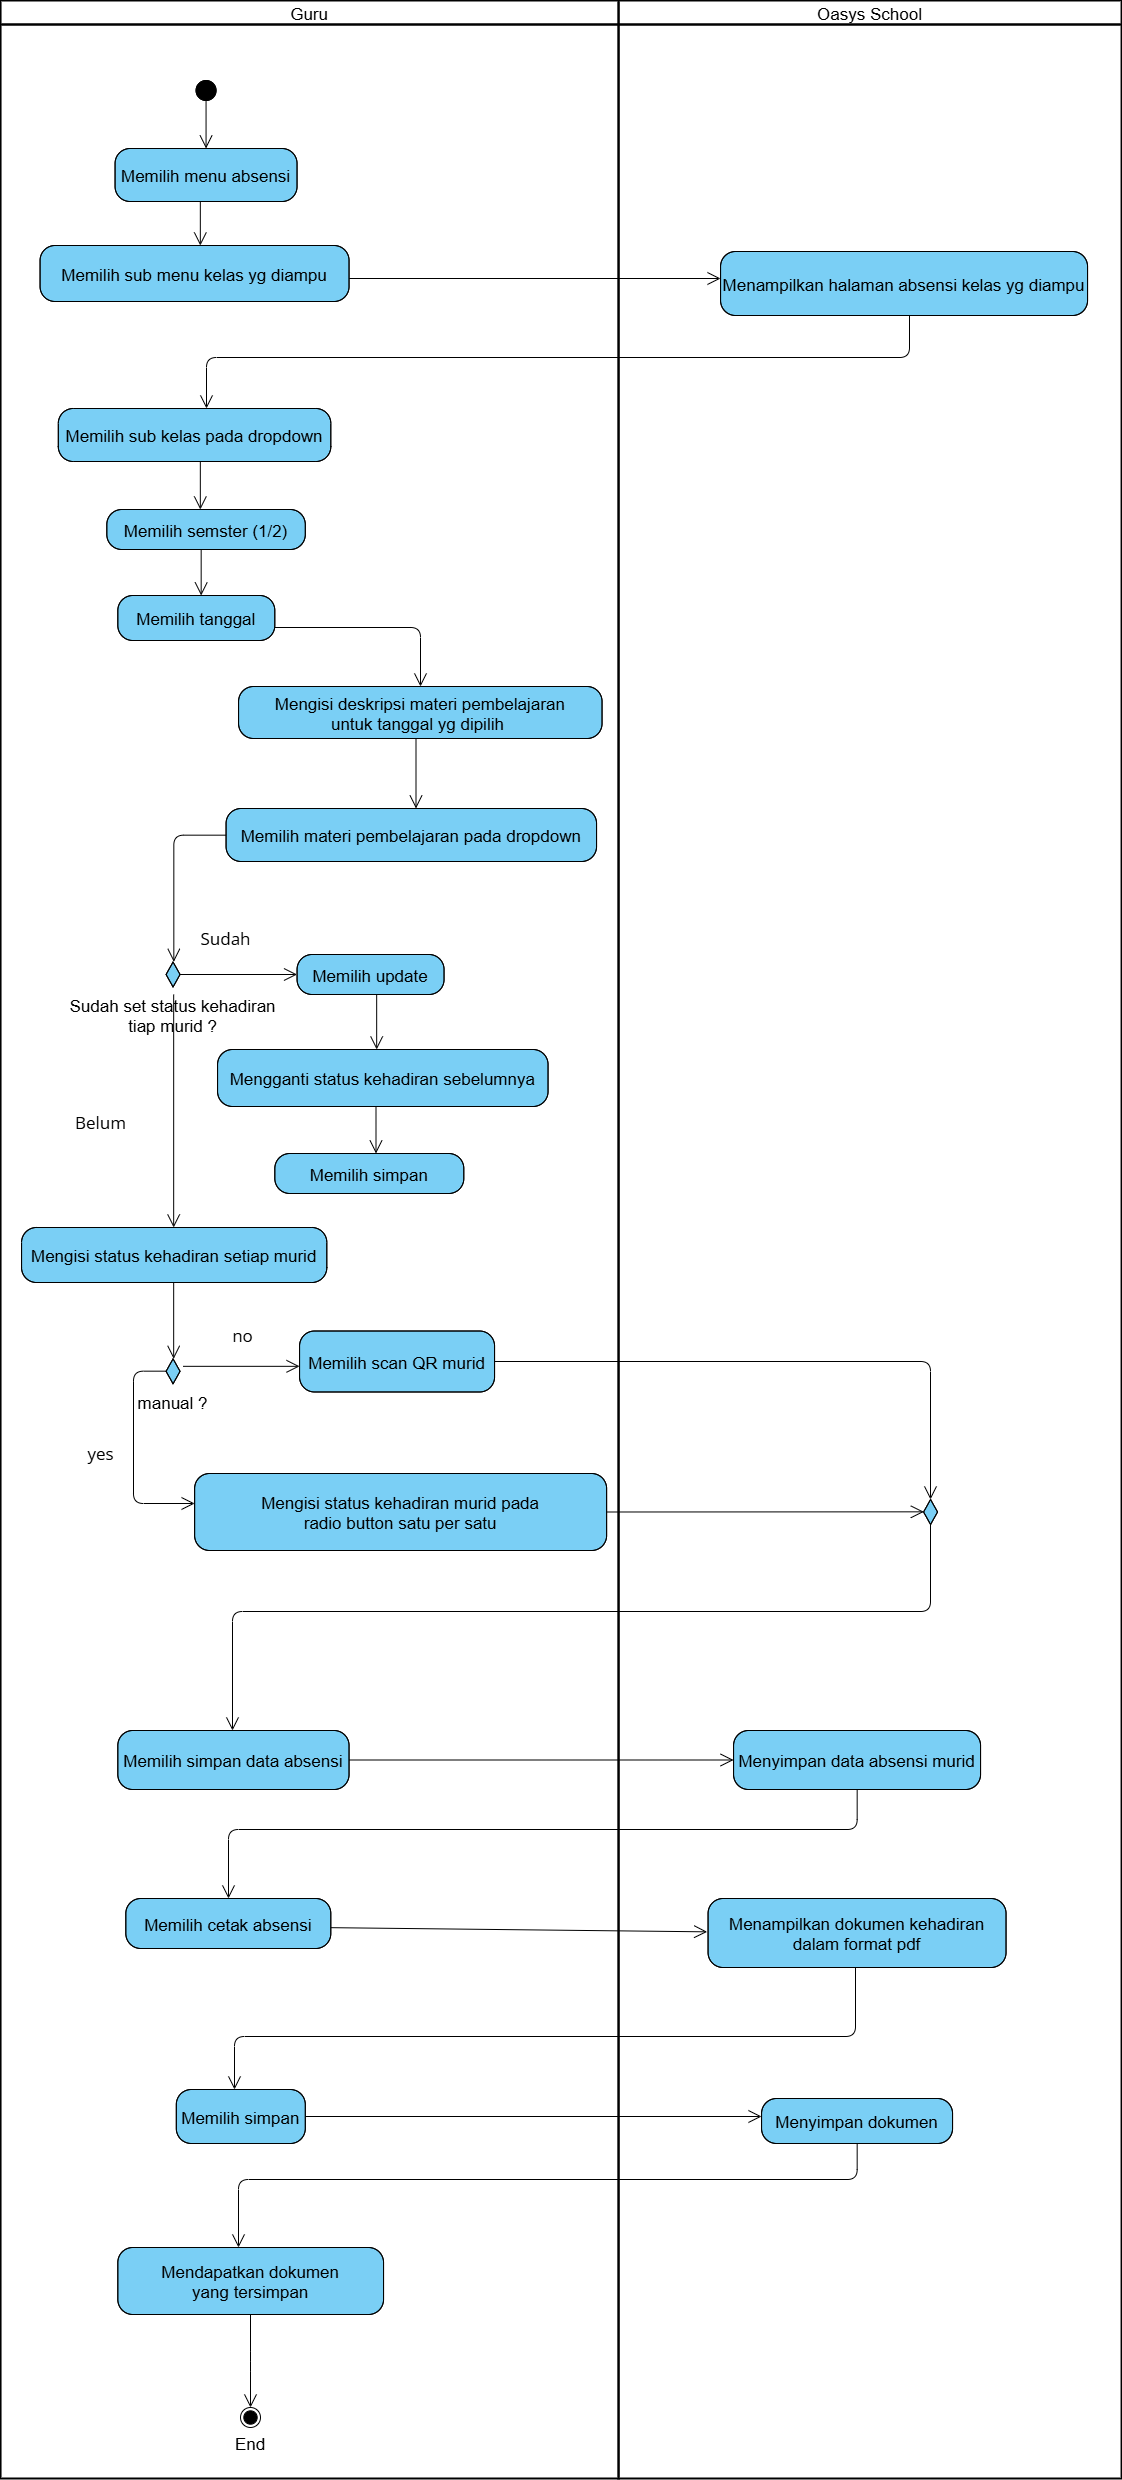
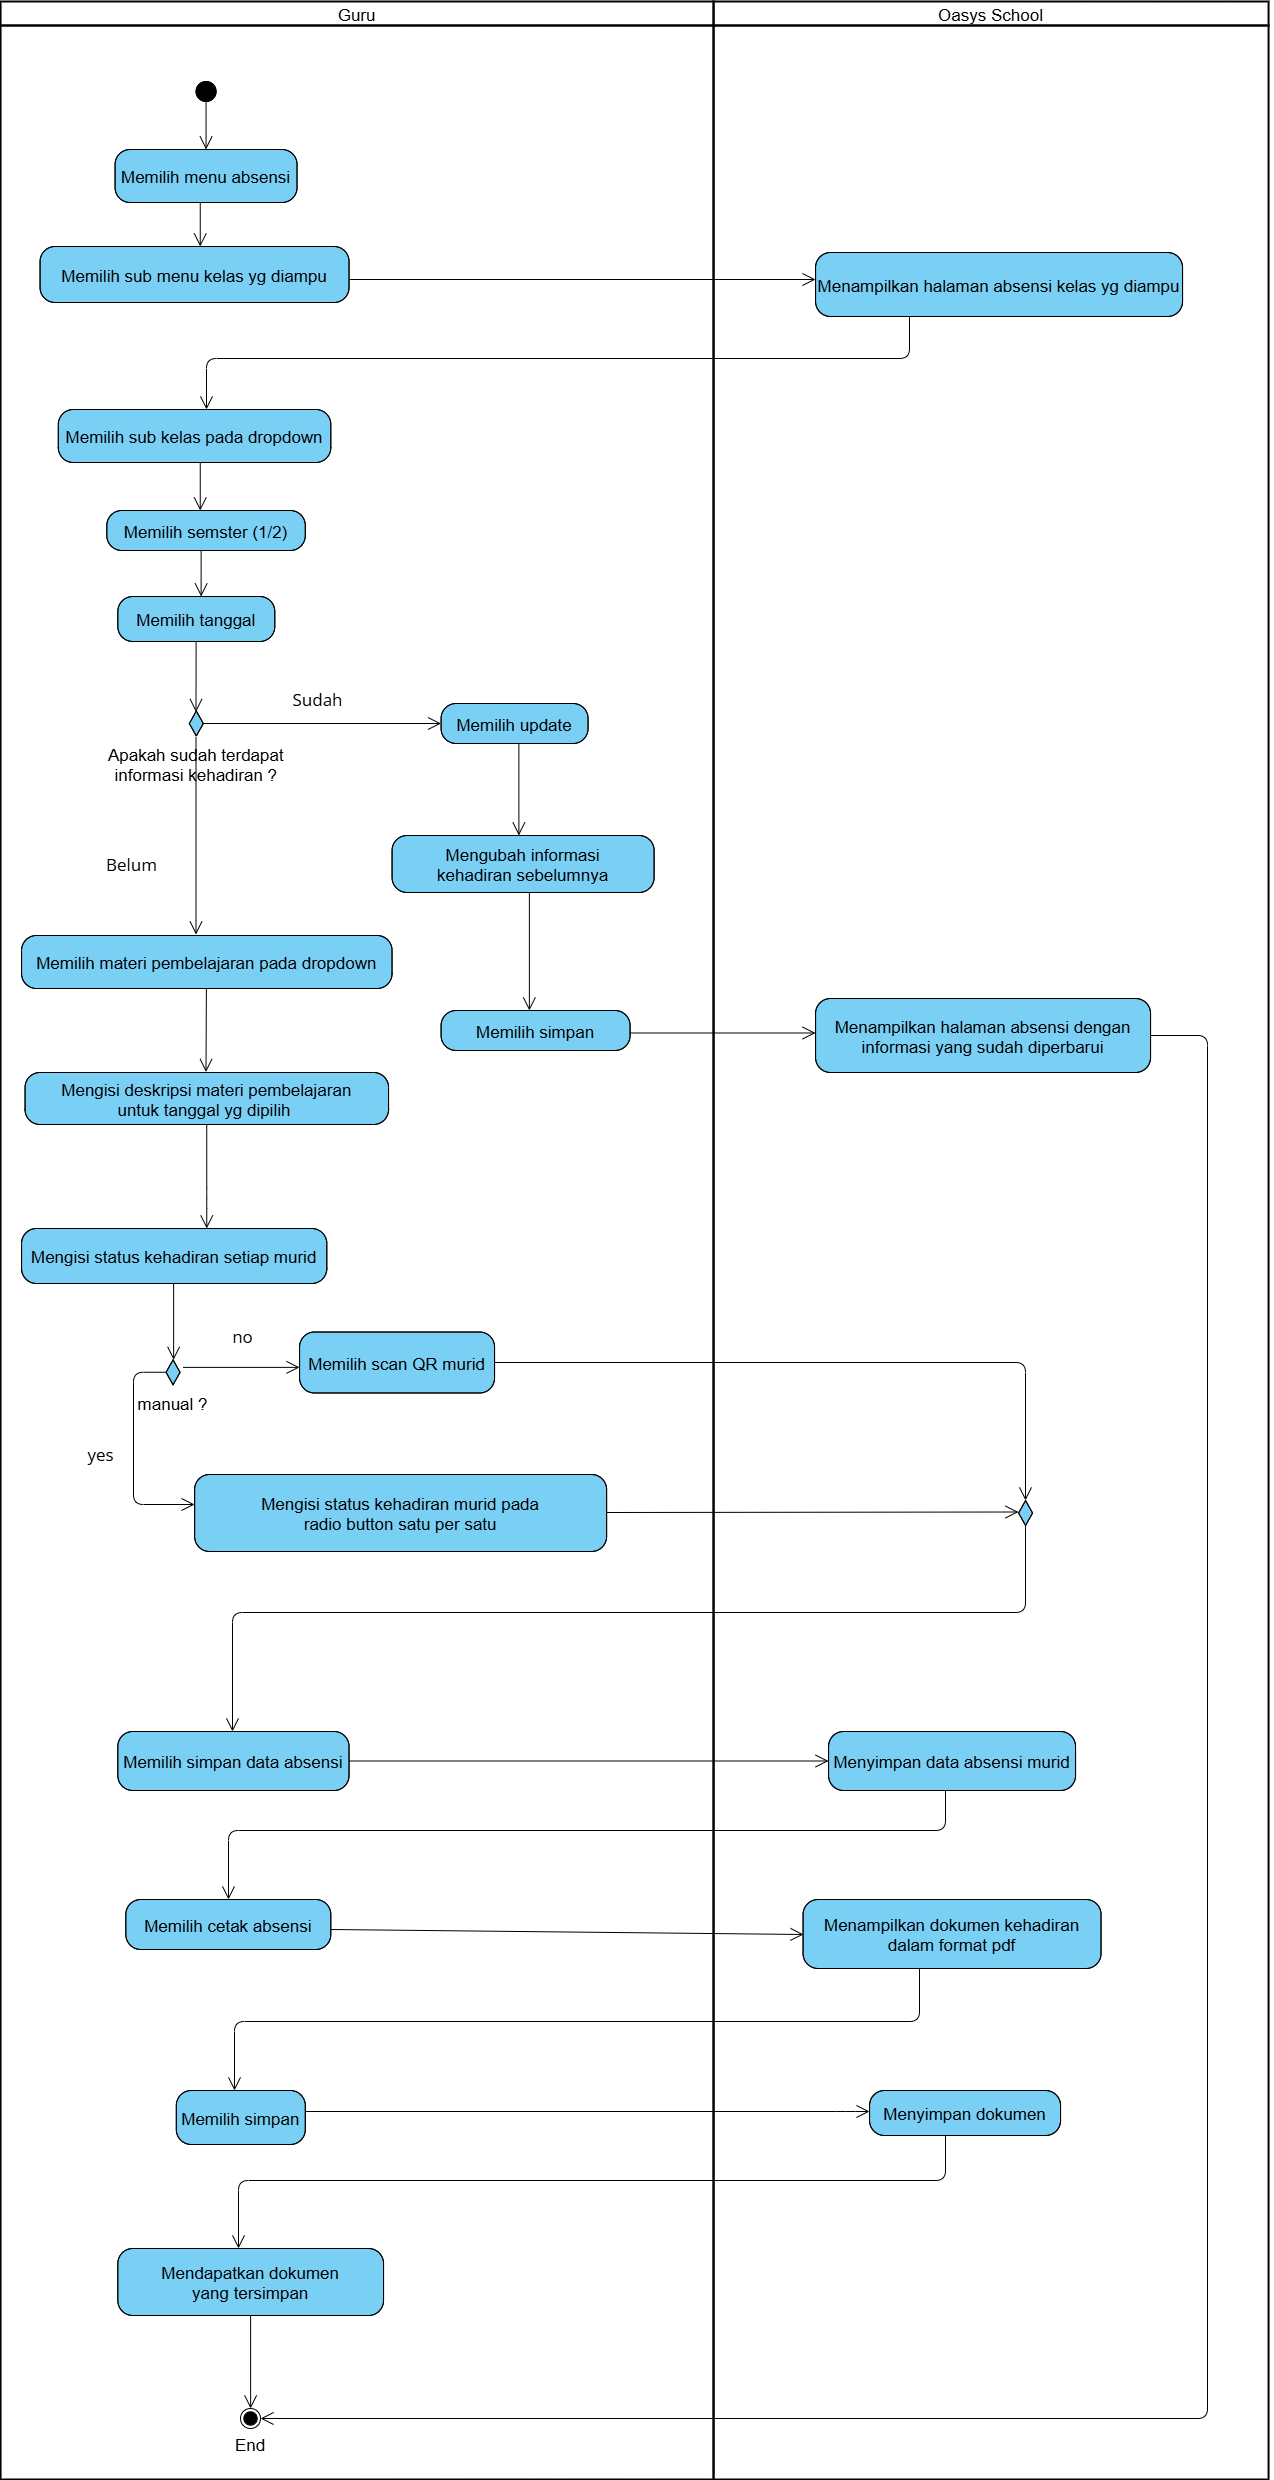
update content in projects section and socmed link

diff --git a/src/components/Contact.jsx b/src/components/Contact.jsx
@@ -136,7 +136,7 @@ const Contact = () => {
             <FiLinkedin size={26} />
           </a>
           <a 
-            href="mailto:@gmail.com?subject=Contact%20from%20WebProfile" 
+            href="mailto:work.sufiana42@gmail.com?subject=Contact%20from%20WebProfile" 
             className="social-icon"
             title={t('contact.social.email')}
           >
